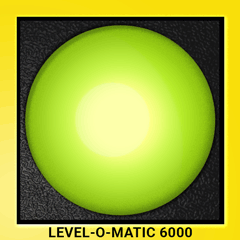
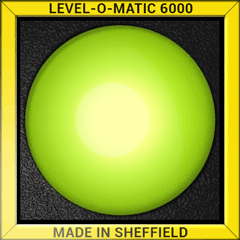
Adding detail to the level. Crosshair now changes colour when centrred.

Changed region(s): [[0.0, 0.0, 1.0, 1.0]]

diff --git a/examples/spirit-level/spirit-level.py b/examples/spirit-level/spirit-level.py
@@ -31,7 +31,8 @@ disp.begin()
 # Load the image assets
 level = Image.open("images/spirit-level.png").convert("RGBA")
 bubble = Image.open("images/spirit-level-bubble.png").convert("RGBA")
-crosshair = Image.open("images/spirit-level-crosshair.png").convert("RGBA")
+crosshair_black = Image.open("images/spirit-level-crosshair-black.png").convert("RGBA")
+crosshair_red = Image.open("images/spirit-level-crosshair-red.png").convert("RGBA")
 
 # Sizes/coordinates of things
 centre = (88, 88)
@@ -54,6 +55,12 @@ while True:
     # Clamp to bounds of green circle
     x_level = min(WIDTH - border - bubble_dia, max(border, x_level))
     y_level = min(WIDTH - border - bubble_dia,max(border, y_level))
+
+    # Use red crosshair if bubble is close to centre
+    if (-0.05 < z < 0.05) and (-0.05 < y < 0.05):
+        crosshair = crosshair_red
+    else:
+        crosshair = crosshair_black
 
     # Construct image
     image = Image.new('RGBA', (WIDTH, HEIGHT), color=(0, 0, 0, 0))

diff --git a/examples/spirit-level/README.md b/examples/spirit-level/README.md
@@ -1,8 +1,7 @@
 # Spirit level example
 
-This examples emulates a circular spirit level, using the
-LCD to draw the spirit level and the accelerometer to
-detect orientation.
+This examples emulates a circular spirit level, using the LCD to draw 
+the spirit level and the 3DoF motion sensor to detect orientation.
 
 ## Pre-requisites
 
@@ -42,3 +41,6 @@ where the LCD is set up.
 ## Running this example
 
 To run this example, type `./spirit-level.py` in the terminal.
+
+It's assumed that you have the MSA301 breakout and LCD breakout lying flat, so 
+your Raspberry Pi or Raspberry Pi Zero will be perpendicular to your flat surface.
